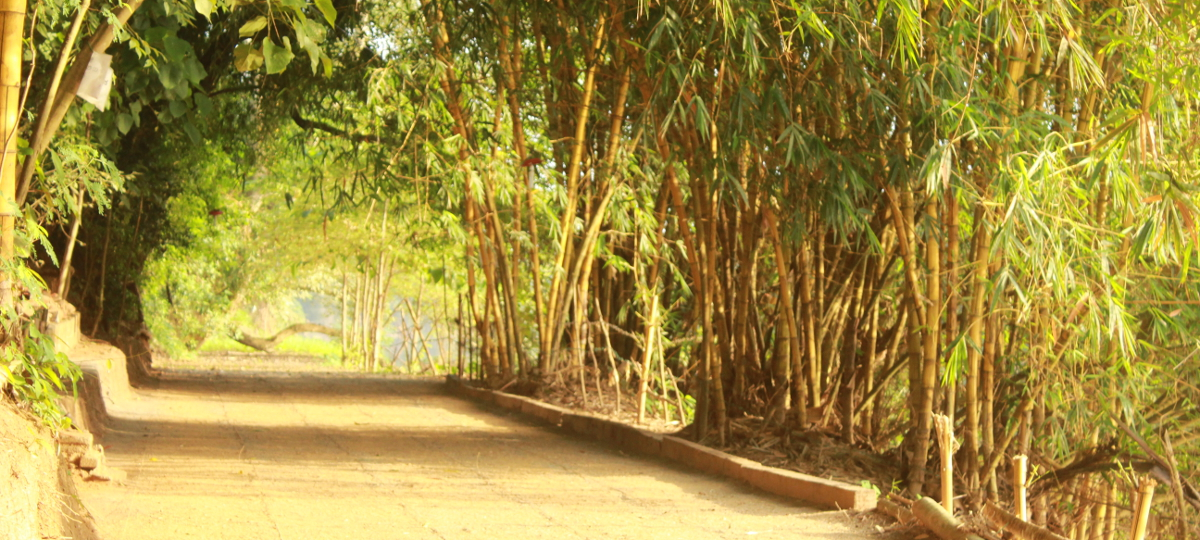
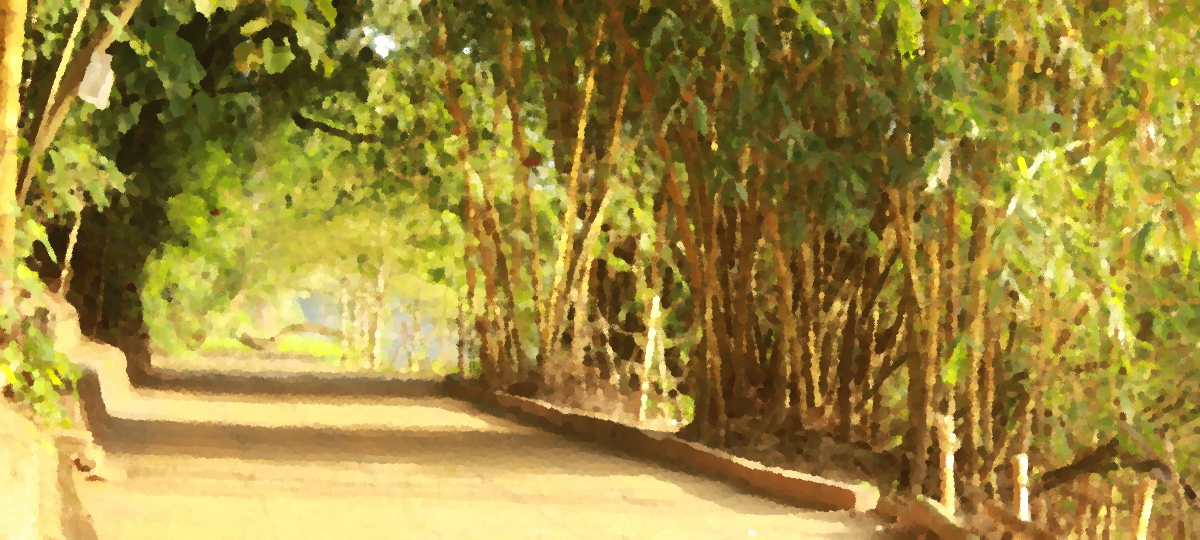
contribute

diff --git a/contribute.html b/contribute.html
@@ -40,7 +40,7 @@
         <!-- Image Header -->
         <div class="row">
           <div class="col-lg-12">
-            <img class="img-responsive" src="./images/meditate_header.png" alt="">
+            <img class="img-responsive" src="./images/contribute.jpg" alt="">
 
             <!-- Navigation -->
             <nav class="navbar navbar-inverse navbar-static-top" role="navigation">
